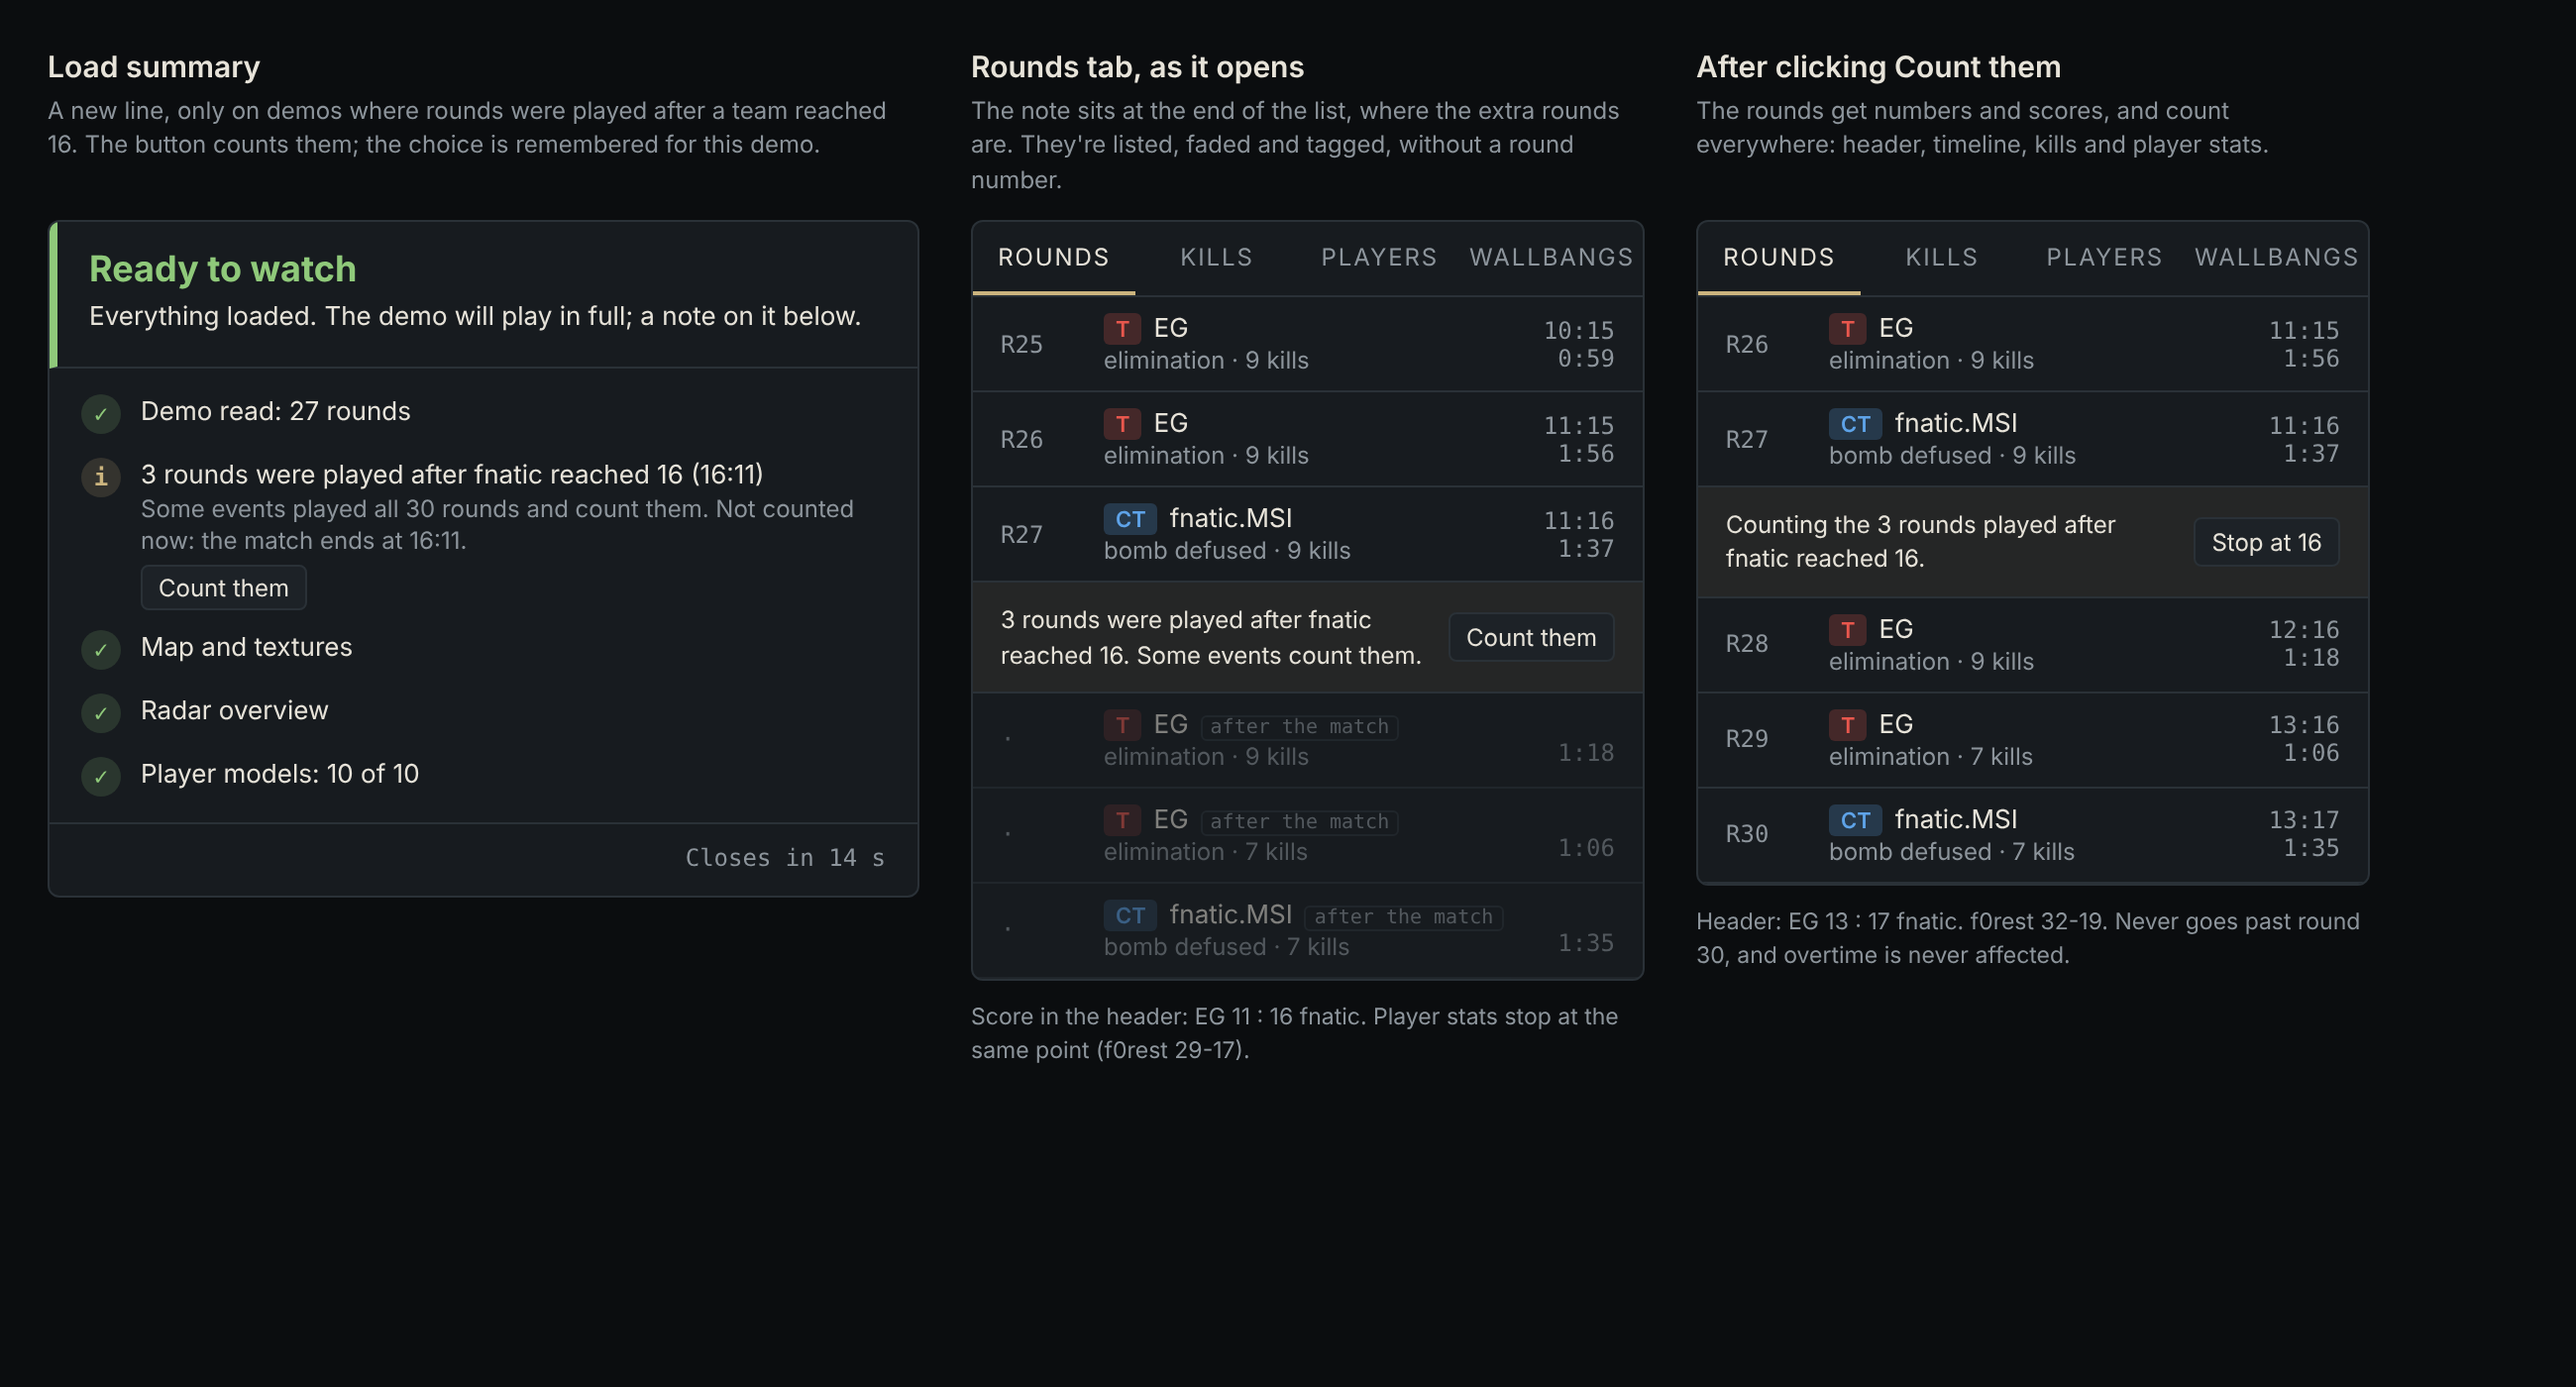
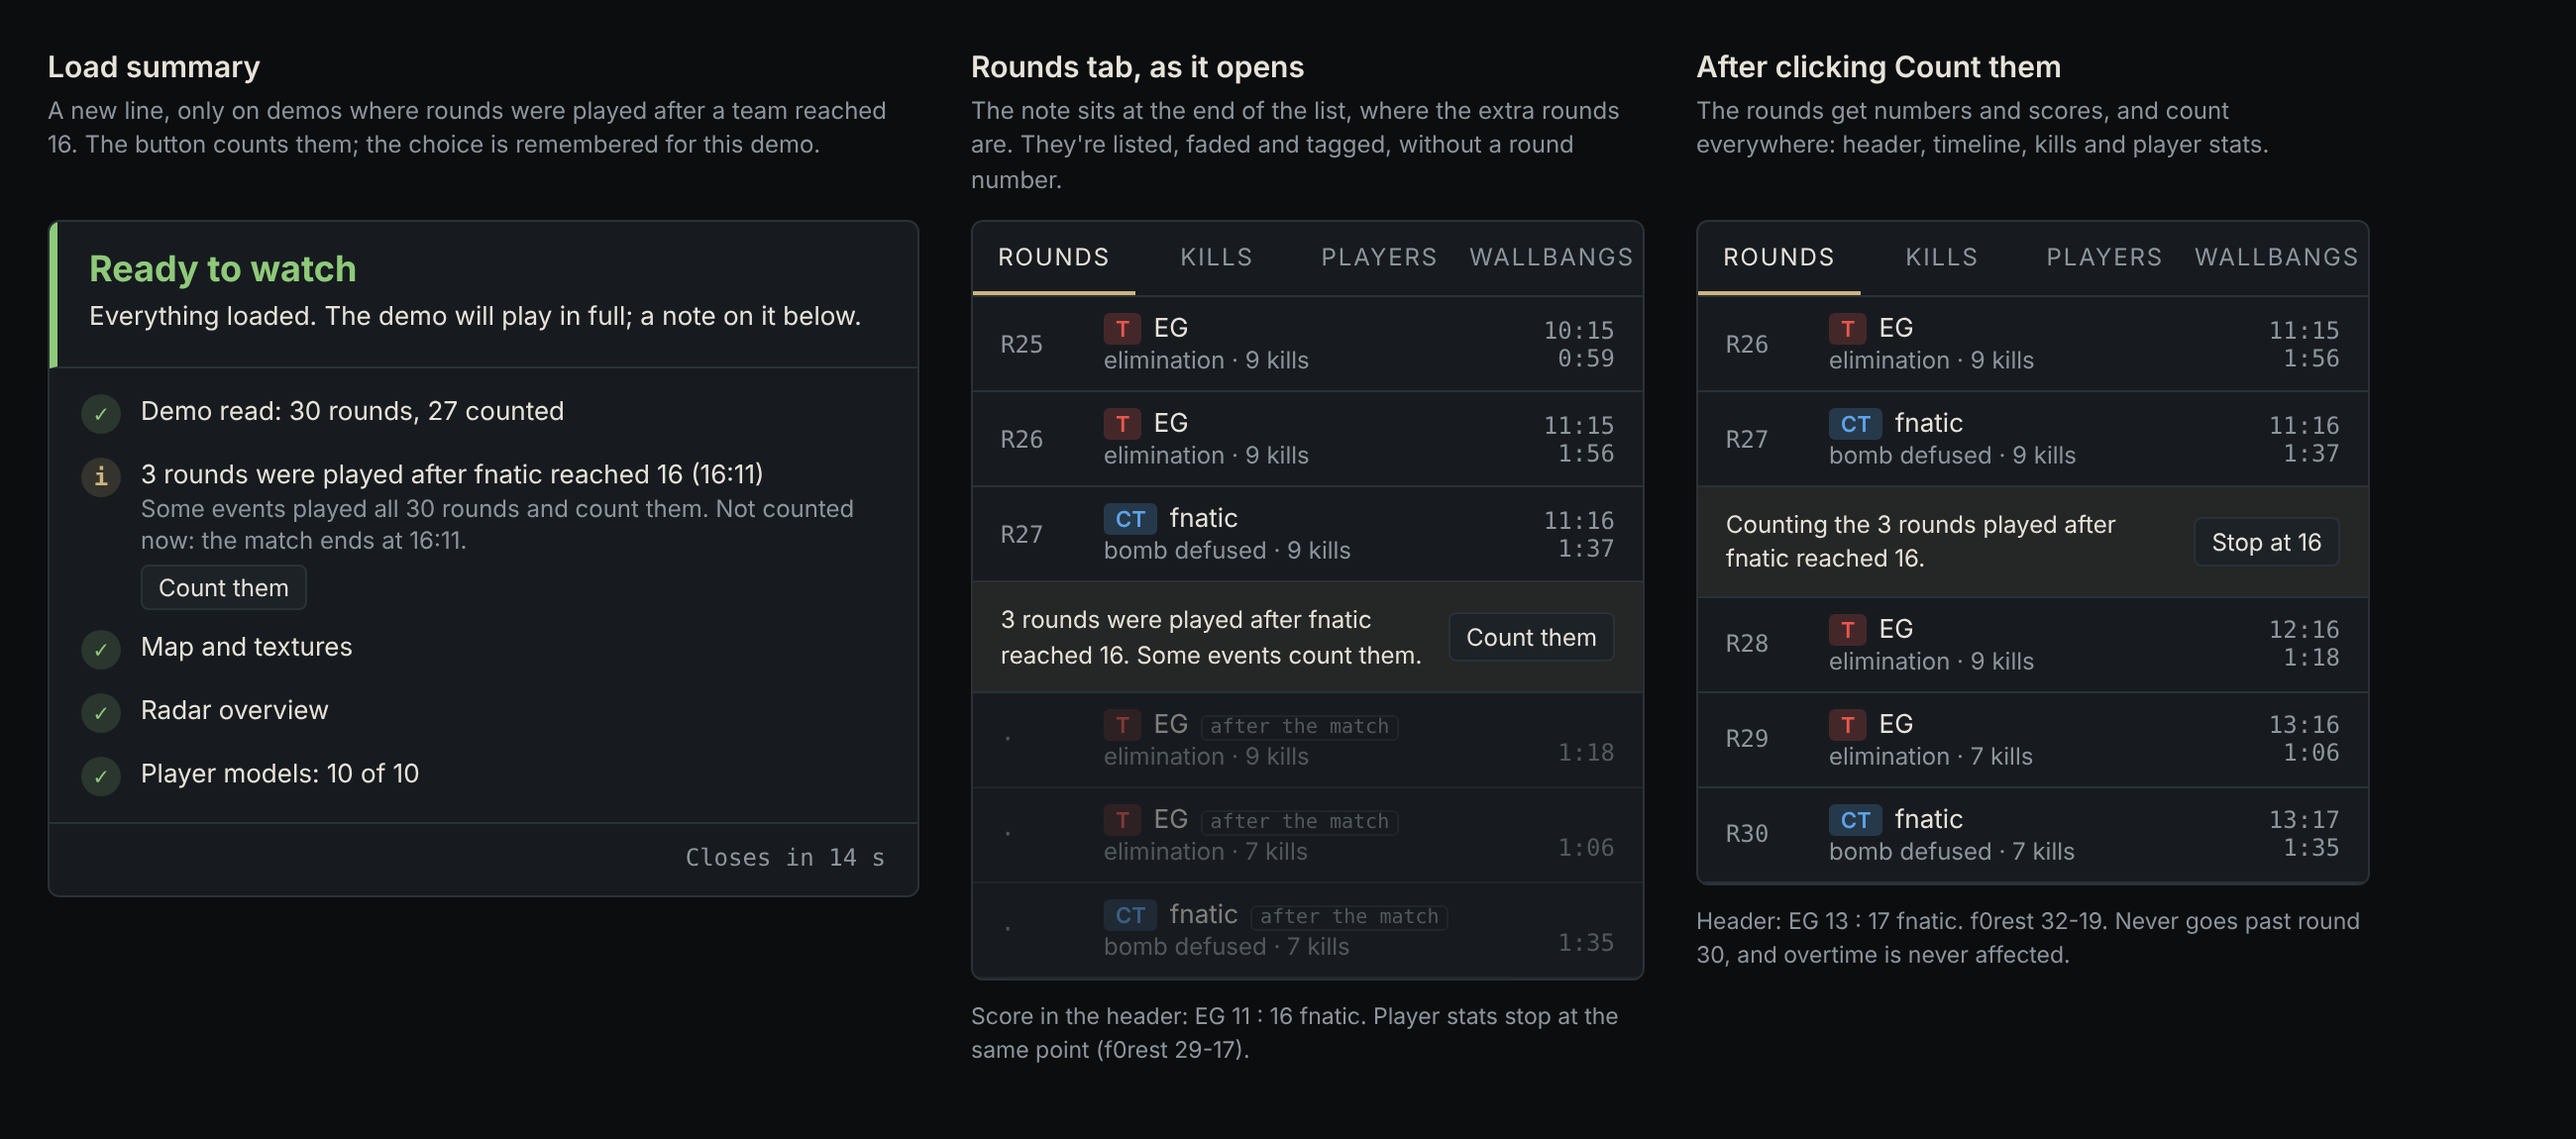
Count them mockup: Sujan's changes; note team names and second-file questions
Claude-Session: https://claude.ai/code/session_011zeseY7EcrSaU4Mk4YuUXN

diff --git a/docs/proposed/count_mock.html b/docs/proposed/count_mock.html
@@ -38,7 +38,7 @@ body{margin:0;background:#0b0d0f;color:var(--fg);font-family:var(--f-body);font-
 <div class="panel">
 <div class="sum-top"><div><h2>Ready to watch</h2><p>Everything loaded. The demo will play in full; a note on it below.</p></div></div>
 <ul class="sum-list">
-<li><span class="ic ok">✓</span><span>Demo read: 27 rounds</span></li>
+<li><span class="ic ok">✓</span><span>Demo read: 30 rounds, 27 counted</span></li>
 <li><span class="ic info">i</span><span>3 rounds were played after fnatic reached 16 (16:11)<small>Some events played all 30 rounds and count them. Not counted now: the match ends at 16:11.</small><div class="li-btn"><span class="btn sm">Count them</span></div></span></li>
 <li><span class="ic ok">✓</span><span>Map and textures</span></li>
 <li><span class="ic ok">✓</span><span>Radar overview</span></li>
@@ -52,11 +52,11 @@ body{margin:0;background:#0b0d0f;color:var(--fg);font-family:var(--f-body);font-
 <div class="tabs"><span class="on">ROUNDS</span><span>KILLS</span><span>PLAYERS</span><span>WALLBANGS</span></div>
 <div class="row"><span class="n">R25</span><span><span class="pill t">T</span>EG<div class="sub">elimination · 9 kills</div></span><span class="d">10:15<br>0:59</span></div>
 <div class="row"><span class="n">R26</span><span><span class="pill t">T</span>EG<div class="sub">elimination · 9 kills</div></span><span class="d">11:15<br>1:56</span></div>
-<div class="row"><span class="n">R27</span><span><span class="pill ct">CT</span>fnatic.MSI<div class="sub">bomb defused · 9 kills</div></span><span class="d">11:16<br>1:37</span></div>
+<div class="row"><span class="n">R27</span><span><span class="pill ct">CT</span>fnatic<div class="sub">bomb defused · 9 kills</div></span><span class="d">11:16<br>1:37</span></div>
 <div class="note"><span>3 rounds were played after fnatic reached 16. Some events count them.</span><span class="btn sm" style="flex:none">Count them</span></div>
 <div class="row after"><span class="n">·</span><span><span class="pill t">T</span>EG<span class="tag">after the match</span><div class="sub">elimination · 9 kills</div></span><span class="d"><br>1:18</span></div>
 <div class="row after"><span class="n">·</span><span><span class="pill t">T</span>EG<span class="tag">after the match</span><div class="sub">elimination · 7 kills</div></span><span class="d"><br>1:06</span></div>
-<div class="row after"><span class="n">·</span><span><span class="pill ct">CT</span>fnatic.MSI<span class="tag">after the match</span><div class="sub">bomb defused · 7 kills</div></span><span class="d"><br>1:35</span></div>
+<div class="row after"><span class="n">·</span><span><span class="pill ct">CT</span>fnatic<span class="tag">after the match</span><div class="sub">bomb defused · 7 kills</div></span><span class="d"><br>1:35</span></div>
 </div>
 <p class="callout">Score in the header: EG 11 : 16 fnatic. Player stats stop at the same point (f0rest 29-17).</p>
 </div>
@@ -65,11 +65,11 @@ body{margin:0;background:#0b0d0f;color:var(--fg);font-family:var(--f-body);font-
 <div class="panel">
 <div class="tabs"><span class="on">ROUNDS</span><span>KILLS</span><span>PLAYERS</span><span>WALLBANGS</span></div>
 <div class="row"><span class="n">R26</span><span><span class="pill t">T</span>EG<div class="sub">elimination · 9 kills</div></span><span class="d">11:15<br>1:56</span></div>
-<div class="row"><span class="n">R27</span><span><span class="pill ct">CT</span>fnatic.MSI<div class="sub">bomb defused · 9 kills</div></span><span class="d">11:16<br>1:37</span></div>
+<div class="row"><span class="n">R27</span><span><span class="pill ct">CT</span>fnatic<div class="sub">bomb defused · 9 kills</div></span><span class="d">11:16<br>1:37</span></div>
 <div class="note"><span>Counting the 3 rounds played after fnatic reached 16.</span><span class="btn sm" style="flex:none">Stop at 16</span></div>
 <div class="row"><span class="n">R28</span><span><span class="pill t">T</span>EG<div class="sub">elimination · 9 kills</div></span><span class="d">12:16<br>1:18</span></div>
 <div class="row"><span class="n">R29</span><span><span class="pill t">T</span>EG<div class="sub">elimination · 7 kills</div></span><span class="d">13:16<br>1:06</span></div>
-<div class="row"><span class="n">R30</span><span><span class="pill ct">CT</span>fnatic.MSI<div class="sub">bomb defused · 7 kills</div></span><span class="d">13:17<br>1:35</span></div>
+<div class="row"><span class="n">R30</span><span><span class="pill ct">CT</span>fnatic<div class="sub">bomb defused · 7 kills</div></span><span class="d">13:17<br>1:35</span></div>
 </div>
 <p class="callout">Header: EG 13 : 17 fnatic. f0rest 32-19. Never goes past round 30, and overtime is never affected.</p>
 </div>

diff --git a/IDEAS.md b/IDEAS.md
@@ -7,7 +7,8 @@ Parked ideas and features we've discussed but not built yet. Each entry keeps en
 Everything raised in conversation that isn't finished, in one place. Each item says who does it. Ideas for new features are further down; this list is for loose ends.
 
 **0.14.2, built on the branch `wip/team-swap-and-match-end`, not shipped** (details in CHANGELOG.md, "In progress")
-- [ ] Sujan: approve or change the Count them mockup, [docs/proposed/count-after-16-mock.png](docs/proposed/count-after-16-mock.png). Move it to `docs/` once approved.
+- [ ] Sujan: approve or change the Count them mockup, [docs/proposed/count-after-16-mock.png](docs/proposed/count-after-16-mock.png). Move it to `docs/` once approved. Updated 2 Oct 2026 with his two changes ("30 rounds, 27 counted", one team name throughout).
+- [ ] Sujan: OK the team name change (CHANGELOG.md, 0.14.2 "Discussed, not changed"): read "_vs_" file names, and look clan tags up in the known teams list so "SK.SWE.AMD" shows as SK Gaming.
 - [ ] Claude: warn, then run the old vs new comparison on every demo (about 25 minutes) and report score changes.
 - [ ] Claude: the three test scripts and page checks, then ship (VERSION, CHANGELOG, Known limits, merge, push, artifact).
 - [ ] Sujan: check the shipped numbers against the matches he knows.
@@ -141,6 +142,8 @@ Checked on two demos:
 
 - **Test suite.** Known answers per demo (final score, round count, zero read errors), wallbang ground truth checked in-game, break-it tests with corrupt files and nasty player names, scripted browser run-throughs, and a folder of custom model and sound packs that must load or fall back cleanly. Could run on every push through GitHub Actions. Verified results so far: WinFakt vs Check-Six Mirage 16-6, Na`Vi vs FX Dust2 16-11 (viewer shows 17-11, known quirk), M5 vs Na`Vi Mirage 16-9, and (1 Oct 2026, every round checked against the admin plugin's "Current score" messages) Fnatic vs ALTERNATE aTTaX Nuke 8-16, Fnatic vs mousesports Tuscan 15-15, mousesports vs AGAiN Inferno 16-11. The Dust2 and Mirage demos should be re-checked with 0.7.1, since round counting now also reads admin announcements. Lessons from testing 0.8.0 and 0.9.x (1 Oct 2026): the headless test browser draws 3D without a graphics chip, so it's slow, and checks that depend on timing (a bar hiding after 2 seconds) can fail there and pass on a real machine. Wait for the outcome instead of a fixed time, and confirm timing failures by hand before chasing them. One full Theatre mode run of 39 checks on five screen setups took about 45 minutes. The scripts used so far are in [tests/](tests/README.md): the browser harness and page checks, the Theatre mode checks, and the demo data probes, with setup and run instructions. They run by hand; wiring them into GitHub Actions is the next step for the suite.
 - **Join a match split over two demo files** (parked 2 Oct 2026). HLTV often splits one match into two files (the Xperia Play FX vs mTw Inferno and Nuke demos). Today each file is scored on its own, so the total score and player K-D have to be added up by hand, and the overtime split is per file (the second file's own first rounds can be read as a first half). Joining needs opening both files together and matching players across them.
+  - **Opening only the second file** (raised by Sujan, 2 Oct 2026): today the viewer treats it as a whole match from 0:0, so its first rounds can be read as a first half and the score is that file's alone. Possible fix, not checked yet: the demo stores the game's own scoreboard each round (the `TeamScore` message, read in `src/demo.js` and kept on each round as `scoreT` / `scoreCT`). If the second file's first round already shows a score such as 9:6, the viewer knows it starts mid-match: it could number rounds from there, put the halves in the right place, and say in the load summary "This demo starts at 9:6, part of a match recorded in more than one file". Check first on the Xperia Play FX vs mTw second files whether that score is really there (a restart between files would reset it to 0:0).
+  - **Joining both files**: when a second file is found, the summary could offer "Open part 1 too" for a file in the same folder with the same teams and map, recorded just before. Player K-D would then add up across both. Not designed yet.
 - **Safety with custom and bad files.** Fall back to the simple figure when a model's skeleton or animations don't match stock CS, cap model and sound size, decode unusual WAVs through the browser, audit every place player names and demo text reach the page, and bail out of files with nonsense values.
 - **Privacy hardening for sujandeswal.com.** Self-host three.js and the fonts, and add a security header that blocks the page from sending data anywhere.
 - **Wallhack measure** (parked, from the "See through walls" discussion, 1 Oct 2026). Measure how long each player's crosshair stays on enemies hidden behind walls, compared with the same players in the open. A high share of time tracking hidden enemies is a sign admins could use alongside watching the view.

diff --git a/CHANGELOG.md b/CHANGELOG.md
@@ -54,6 +54,9 @@ Checked with `tests/page/match_detail.js`. Count them was switched on, then off 
 - Whether rounds after 16 count can't be read from the demo, so it's the default (stop at 16) unless switched per demo.
 
 ### Discussed, not changed
+- Count them mockup, Sujan's changes (2 Oct 2026): the load summary's first line reads "Demo read: 30 rounds, 27 counted", so the line under it ("3 rounds were played after…") has its context; the note uses the same team name as the header and the rows ("fnatic" everywhere in the mockup, which assumes the team name change below).
+- Rounds after the match stay faded in the Rounds tab with no round number and no running score (agreed 2 Oct 2026). Their numbers and scores show once Count them is clicked, so showing them before would only add clutter. The round time stays, so the rows can still be clicked and watched.
+- Team names (raised 2 Oct 2026, not built yet): the header, rows and notes should show the plain team name ("SK Gaming" for "SK", "SK.SWE.AMD" or "SK Gaming |"). Today the viewer takes it from, in order: a name typed in the header (click to rename, remembered per demo), the demo file name when it has "-vs-" in it (looked up in a list of known teams), then the clan tag most of the team shares, as written ("fnatic.MSI"). The fnatic vs EG file is named `fnatic_vs_EG_...`, with "_vs_", so it falls through to the clan tag. Proposed: also read "_vs_" file names, and look the clan tag up in the known teams list by its first part ("SK.SWE.AMD" gives "sk", so SK Gaming; "fnatic.MSI" gives fnatic). An unknown tag stays as written. Waiting for Sujan's OK.
 - Stop at 16 or play all 30: most demos Sujan has stop at 16, some events played all 30. Detecting it from the demo isn't reliable, so stopping at 16 is the default with a per-demo switch (agreed 2 Oct 2026). Sujan confirmed overtime must stay MR3 and never be treated as "play to 30".
 
 ## 0.14.1 (2026-10-02)
